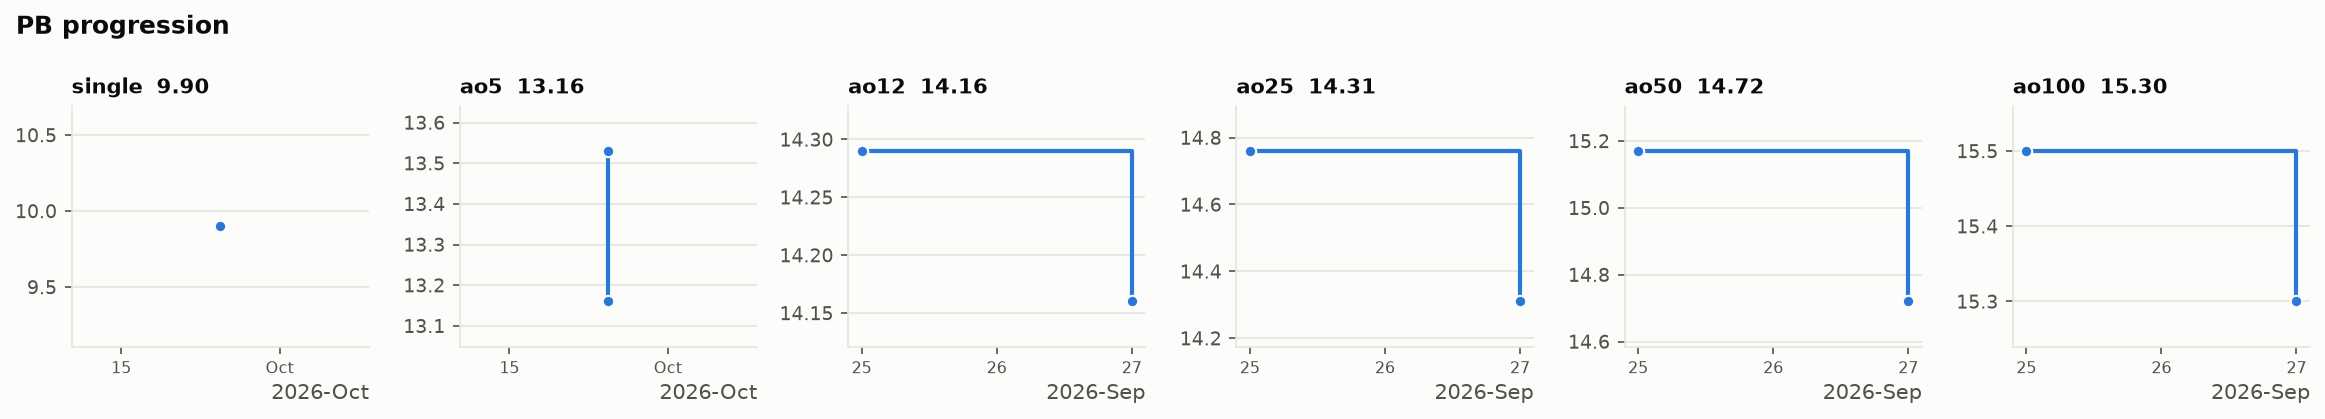
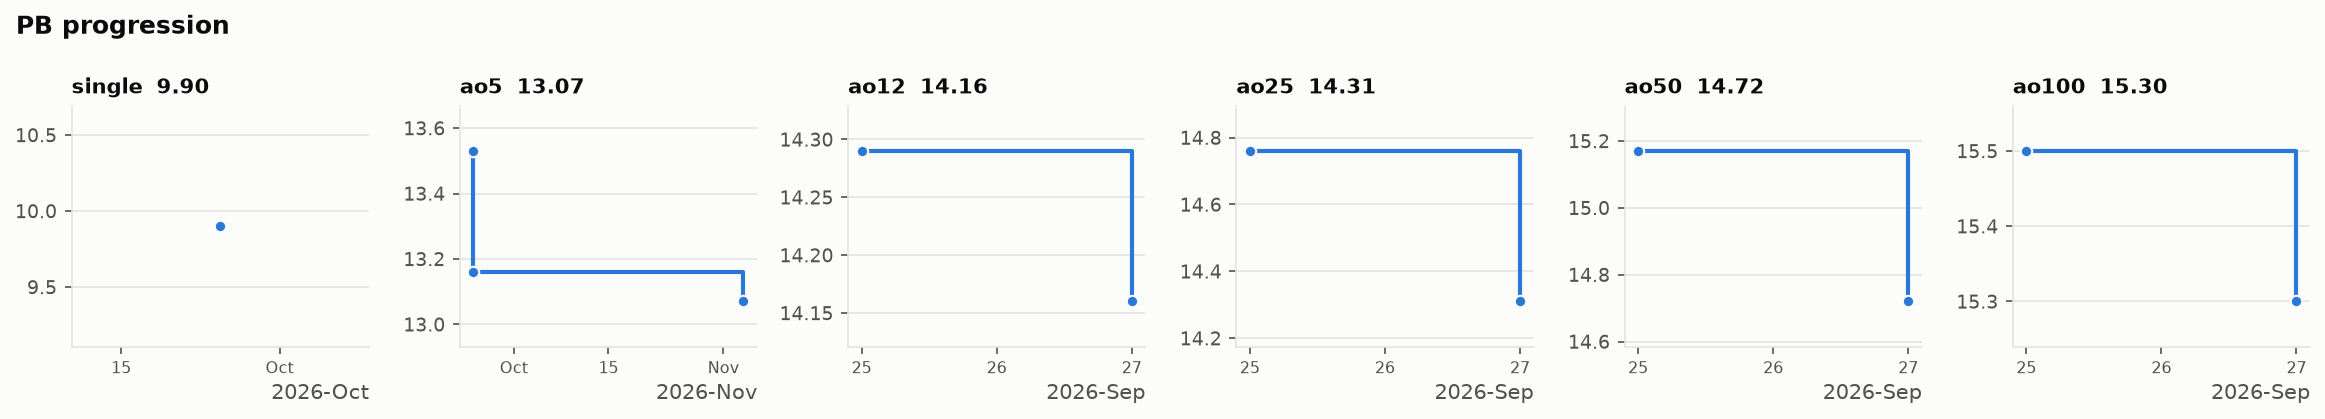
Add 13.07 ao5 PB and 10.83 single highlight (2026-11-04)

diff --git a/README.md b/README.md
@@ -7,13 +7,13 @@ Personal-best averages, with the full solve list and stats behind each one. New 
 | Event | PB | Date | Stats |
 |---|---|---|---|
 | **single** | **9.90** | 2026-09-25 | [details](stats/single/single_2026-09-25.md) |
-| **ao5** | **13.16** | 2026-09-25 (#2) | [details](stats/ao5/ao5_2026-09-25_2.md) |
+| **ao5** | **13.07** | 2026-11-04 | [details](stats/ao5/ao5_2026-11-04.md) |
 | **ao12** | **14.16** | 2026-09-27 | [details](stats/ao12/ao12_2026-09-27.md) |
 | **ao25** | **14.31** | 2026-09-27 | [details](stats/ao25/ao25_2026-09-27.md) |
 | **ao50** | **14.72** | 2026-09-27 | [details](stats/ao50/ao50_2026-09-27.md) |
 | **ao100** | **15.30** | 2026-09-27 | [details](stats/ao100/ao100_2026-09-27.md) |
 
-**[Highlights →](highlights/README.md)** (3 singles, 6 ao5s)
+**[Highlights →](highlights/README.md)** (4 singles, 6 ao5s)
 
 ![PB progression](stats/charts/progression.png)
 
@@ -31,7 +31,8 @@ Newest first. Each new PB pushes the older ones down.
 
 | Date | Time | Improvement | σ | σ / mean | Stats |
 |---|---|---|---|---|---|
-| 2026-09-25 (#2) | **13.16** | −0.37 | 2.19 | 15.9% | [details](stats/ao5/ao5_2026-09-25_2.md) |
+| 2026-11-04 | **13.07** | −0.09 | 1.71 | 12.8% | [details](stats/ao5/ao5_2026-11-04.md) |
+| 2026-09-25 (#2) | 13.16 | −0.37 | 2.19 | 15.9% | [details](stats/ao5/ao5_2026-09-25_2.md) |
 | 2026-09-25 | 13.53 | first recorded | 1.04 | 7.7% | [details](stats/ao5/ao5_2026-09-25.md) |
 
 ### ao12

diff --git a/stats/ao5/ao5_2026-11-04.md b/stats/ao5/ao5_2026-11-04.md
@@ -1,0 +1,46 @@
+# ao5 PB — 13.07
+
+**Date:** 2026-11-04  
+**Previous PB:** 13.16 (2026-09-25 (#2)) · improved by **0.09s**  
+[← all records](../../README.md)
+
+## Stats
+
+| | |
+|---|---|
+| **ao5 (official, trimmed)** | **13.07** |
+| Solves | 5 (trimmed 1 from each end) |
+| Mean (all solves) | 13.36 |
+| Median | 13.20 |
+| Std dev (σ, all solves) | 1.71 |
+| Std dev (σ, counted solves only) | 0.99 |
+| **Consistency: σ / mean** | **12.8%** |
+| Consistency, outlier-proof: IQR / median | 14.8% |
+| Min / Best | 11.66 |
+| Q1 (25th pct) | 12.02 |
+| Q3 (75th pct) | 13.98 |
+| Max / Worst | 15.92 |
+| IQR (Q3 − Q1) | 1.96 |
+| Range | 4.26 |
+
+**Sub-X counts:** sub-12: 1 · sub-13: 2 · sub-14: 4 · sub-15: 4 · sub-16: 5
+
+## Distribution
+
+![distribution](../charts/ao5_2026-11-04_distribution.png)
+
+## Solves in order
+
+![sequence](../charts/ao5_2026-11-04_sequence.png)
+
+## Solves
+
+| # | Time | Scramble |
+|---|---|---|
+| 1 | (15.92) | `F' R2 D B2 U F2 D2 B2 D B2 U2 L F2 R' U' B D B U R` |
+| 2 | **13.98** | `D' F' D2 B2 R2 D' F2 U B2 F2 U2 L2 D' F' D' L' R2 U2 B2 F'` |
+| 3 | **13.20** | `F D2 L2 F2 U' F2 D' U' L2 U' L' F R F L B' L U L` |
+| 4 | **12.02** | `R2 U' R' D2 B2 D' U2 L2 D F2 L2 U' B2 U' F' D R2 B' U' F' L'` |
+| 5 | (11.66) | `F U2 F2 D' L2 U' B2 L2 R2 D L2 U2 R B R' B' L' U2 L2 U'` |
+
+<sub>Bold = counted, (parentheses) = trimmed. `+` = includes a +2 penalty.</sub>

diff --git a/highlights/README.md b/highlights/README.md
@@ -5,10 +5,11 @@ Fast results that weren't PBs, newest first. Click an event to show or hide it. 
 [← all records](../README.md)
 
 <details open>
-<summary><b>single</b> · 3</summary>
+<summary><b>single</b> · 4</summary>
 
 | Date | Time |
 |---|---|
+| [2026-11-04 (#2)](#single-2026-11-04-2--1083) | **10.83** |
 | [2026-11-04](#single-2026-11-04--1010) | **10.10** |
 | [2026-10-20](#single-2026-10-20--1218) | **12.18** |
 | [2026-09-25](#single-2026-09-25--1197) | **11.97** |
@@ -37,6 +38,12 @@ _No ao12 highlights yet._
 </details>
 
 ## Details
+
+### single 2026-11-04 (#2) — 10.83
+
+**Scramble:** `D' R' L2 D' F2 R2 B2 R2 U' R2 B2 D R2 F' L' U' B L B2 D2`
+
+_No reconstruction yet._
 
 ### single 2026-11-04 — 10.10
 
